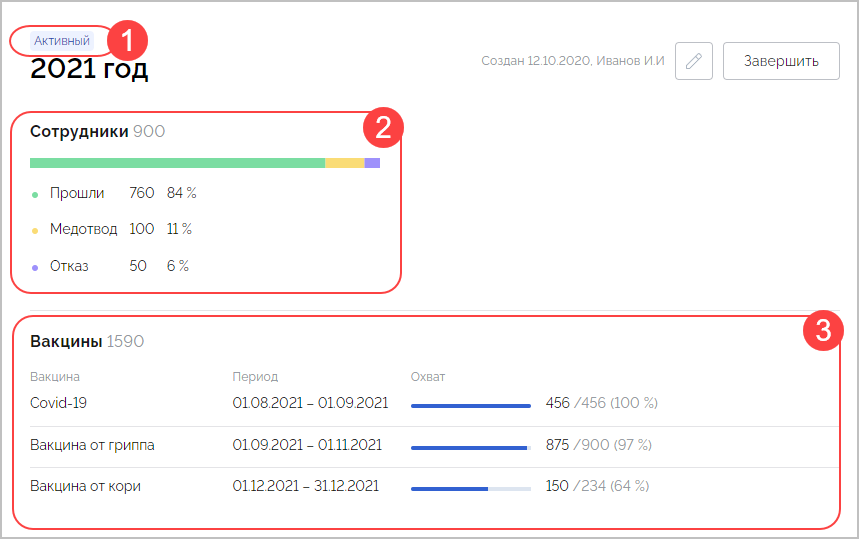
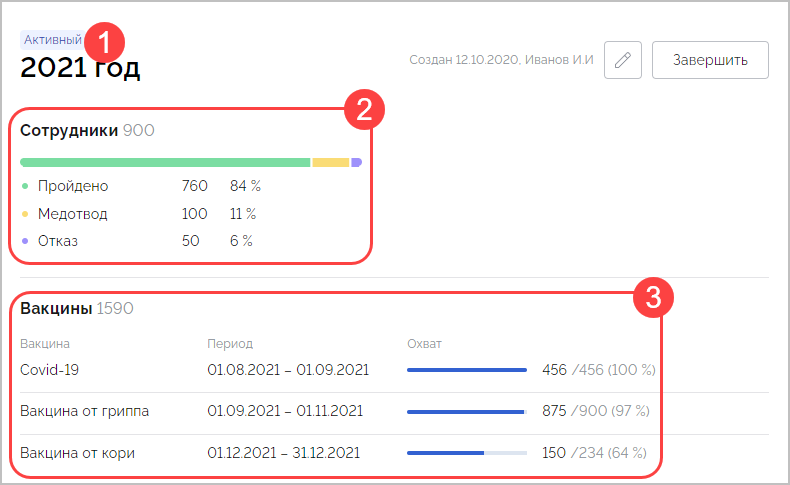
Обновил скрины и описание в соответствии с комментами Марии

Changed region(s): [[0.0, 0.0309, 1.0, 0.9897], [0.5165, 0.0619, 1.0, 0.1546]]

diff --git a/РП Периметр-ПМ/perimetr_pm.md b/РП Периметр-ПМ/perimetr_pm.md
@@ -316,7 +316,6 @@
 
 Назначения формируются в следующих протоколах:
 
-- профилактический прием врача-терапевта цехового участка;
 - первичная консультация врача-терапевта цехового участка;
 - повторная консультация врача-терапевта цехового участка.
 
@@ -336,7 +335,7 @@
 
 ##### План мероприятий
 
-План мероприятий формируется только для протокола диспансерного приема врача-терапевта цехового участка.
+План мероприятий формируется только для протоколов диспансерного или профилактического приемов врача-терапевта цехового участка.
 
 Раздел **План мероприятий** позволяет:
 
@@ -834,7 +833,7 @@
 
 > Перед созданием локации убедитесь, что добавлена хотя бы одна организация.
 
-Для добавления локации откройте необходимую организацию и нажмите кнопку **Новая локация**:
+Для добавления локации откройте необходимую организацию и нажмите кнопку **Создать локацию**:
 
 ![Новая локация](img/loc1.png)
 
